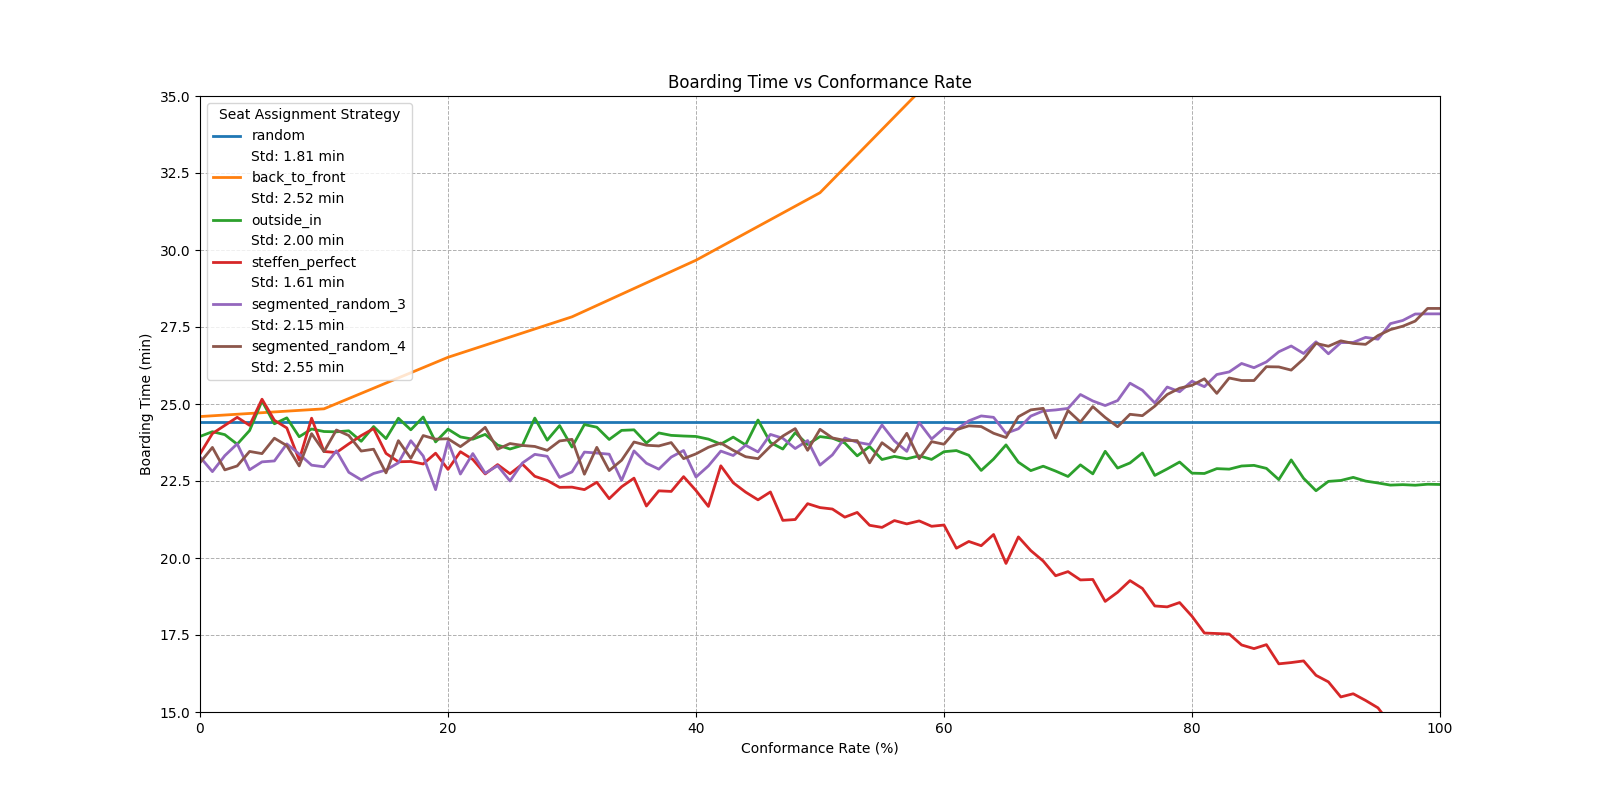
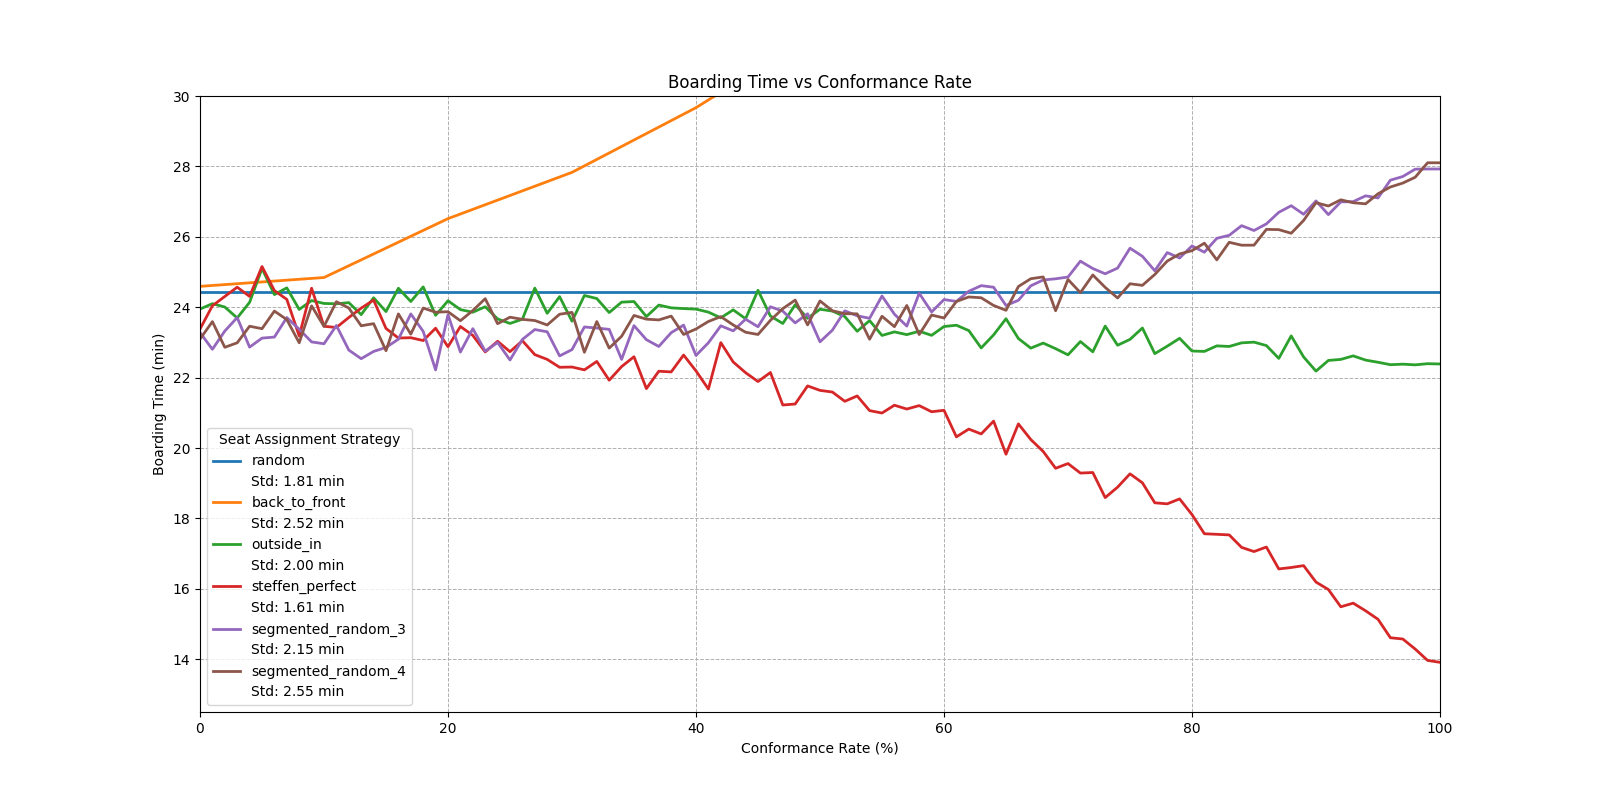
new fig

diff --git a/analysis_experiment.py b/analysis_experiment.py
@@ -80,11 +80,11 @@ def plot_boarding_times_conformance():
         plt.xlabel("Conformance Rate (%)")
         plt.ylabel("Boarding Time (min)")
         plt.title(title)
-        plt.legend(handles=legend_labels, title="Seat Assignment Strategy", loc="upper left")
+        plt.legend(handles=legend_labels, title="Seat Assignment Strategy", loc="lower left")
 
         plt.grid(True, linestyle="--", linewidth=0.7)
         plt.xlim(0, 100)
-        plt.ylim(15, 35)
+        plt.ylim(12.5, 30)
         plt.savefig(f"results/experiment/{title}.png")
 
     plot_graph(graph_1_strategies, "Boarding Time vs Conformance Rate")
